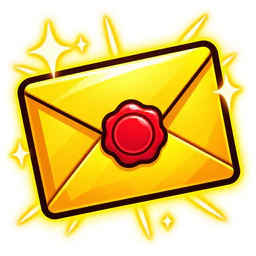
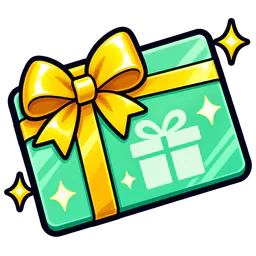
art(office): mint gift-card collectible, high-five colleague

diff --git a/public-office/art/SOURCES.md b/public-office/art/SOURCES.md
@@ -204,7 +204,7 @@ GPT Image 2.5 (`gpt_image_2_5`, medium, transparent) → trimmed, contained with
 | `collect-docs.webp` | gpt_image_2_5 | Single game pickup item icon, one object only, centered and filling most of the square, very thick dark outline, bold simple shapes, saturated colors with neon accents, bright Korean webtoon comic style, cel shading, readable at 32 pixels, transparent background, no text, no letters, no numbers, no logos. The item: a small stack of documents in a green folder with a red urgent sticky flag, blank pages. |
 | `collect-cookie.webp` | gpt_image_2_5 | Single game pickup item icon, one object only, centered and filling most of the square, very thick dark outline, bold simple shapes, saturated colors with neon accents, bright Korean webtoon comic style, cel shading, readable at 32 pixels, transparent background, no text, no letters, no numbers, no logos. The item: a round chocolate chip cookie with a bite taken out. |
 | `collect-badge.webp` | gpt_image_2_5 | Single game pickup item icon, one object only, centered and filling most of the square, very thick dark outline, bold simple shapes, saturated colors with neon accents, bright Korean webtoon comic style, cel shading, readable at 32 pixels, transparent background, no text, no letters, no numbers, no logos. The item: an employee ID badge card on a pink lanyard with a blank photo silhouette. |
-| `collect-envelope.webp` | gpt_image_2_5 | Single game pickup item icon, one object only, centered and filling most of the square, very thick dark outline, bold simple shapes, saturated colors with neon accents, bright Korean webtoon comic style, cel shading, readable at 32 pixels, transparent background, no text, no letters, no numbers, no logos. The item: a plain golden envelope with a red seal, glowing. |
+| `collect-envelope.webp` | gpt_image_2_5 | Single game pickup item icon, one object only, centered and filling most of the square, very thick dark outline, bold simple shapes, saturated colors with neon accents, bright Korean webtoon comic style, cel shading, readable at 32 pixels, transparent background, no text, no letters, no numbers, no logos. The item: a mint-green gift card voucher tied with a shiny gold ribbon bow, small sparkles, clearly a flat card not an envelope. |
 
 v2 feel review (2026-10-29): prop-golf (ball only) and prop-paper-plane (neon planes, no faces) regenerated and mirrored to travel LEFT (the renderer flips only rear attacks); floor-3 and floor-0-dawn regenerated calmer (no speckle / reflections), soften 0.25 / 0.2, mirror-tiled.
 prop-postit regenerated (loose 4-note cluster), contained with a 40 px margin so it keeps air around it.
@@ -214,3 +214,8 @@ prop-postit regenerated (loose 4-note cluster), contained with a 40 px margin so
 nano_banana_flash edit of each approved idle reference (`ref-boss-<slot>`), same prompt for all 7: $STYLE. Edit the reference image into a second idle animation frame of the SAME character: identical face, hair, outfit, colors, props, proportions, line style, size and framing, still standing and facing slightly to the LEFT. Change only this: body weight shifted onto the other foot with a slight hip shift, arms held slightly differently (a small natural change), mouth and eyebrows a touch different. Pure flat white background, no ground, no shadow, no speed lines, nothing added.
 
 Cut out locally, then placed so its opaque box has the same height, bottom and centre-x as `boss-<slot>.webp` (768×1024), so idle ↔ idle2 alternate without a jump. `cwebp -q 82`.
+
+## v2.1 additions (2026-11-02)
+
+- `collect-envelope.webp` regenerated as a mint gift card with a gold ribbon (was a golden envelope identical to the hazard `prop-envelope`).
+- `prop-colleague.webp` (high-five coworker for the 돌발 highfive event): nano_banana_flash — $STYLE. Single full-body chibi character, 2.5 heads tall, on a pure flat white background, no ground, no shadow, no speed lines, nothing else. A cheerful young Korean office coworker (friendly man with short wavy brown hair, light-blue shirt with rolled sleeves, grey slacks, blank ID badge on a teal lanyard), side three-quarter view facing RIGHT, standing and raising one open hand high for a high-five, big happy grin, full body head to toe. Cut out locally, 512×640, 615 px tall, feet at y=639, centred (same anchor as the heroes).
